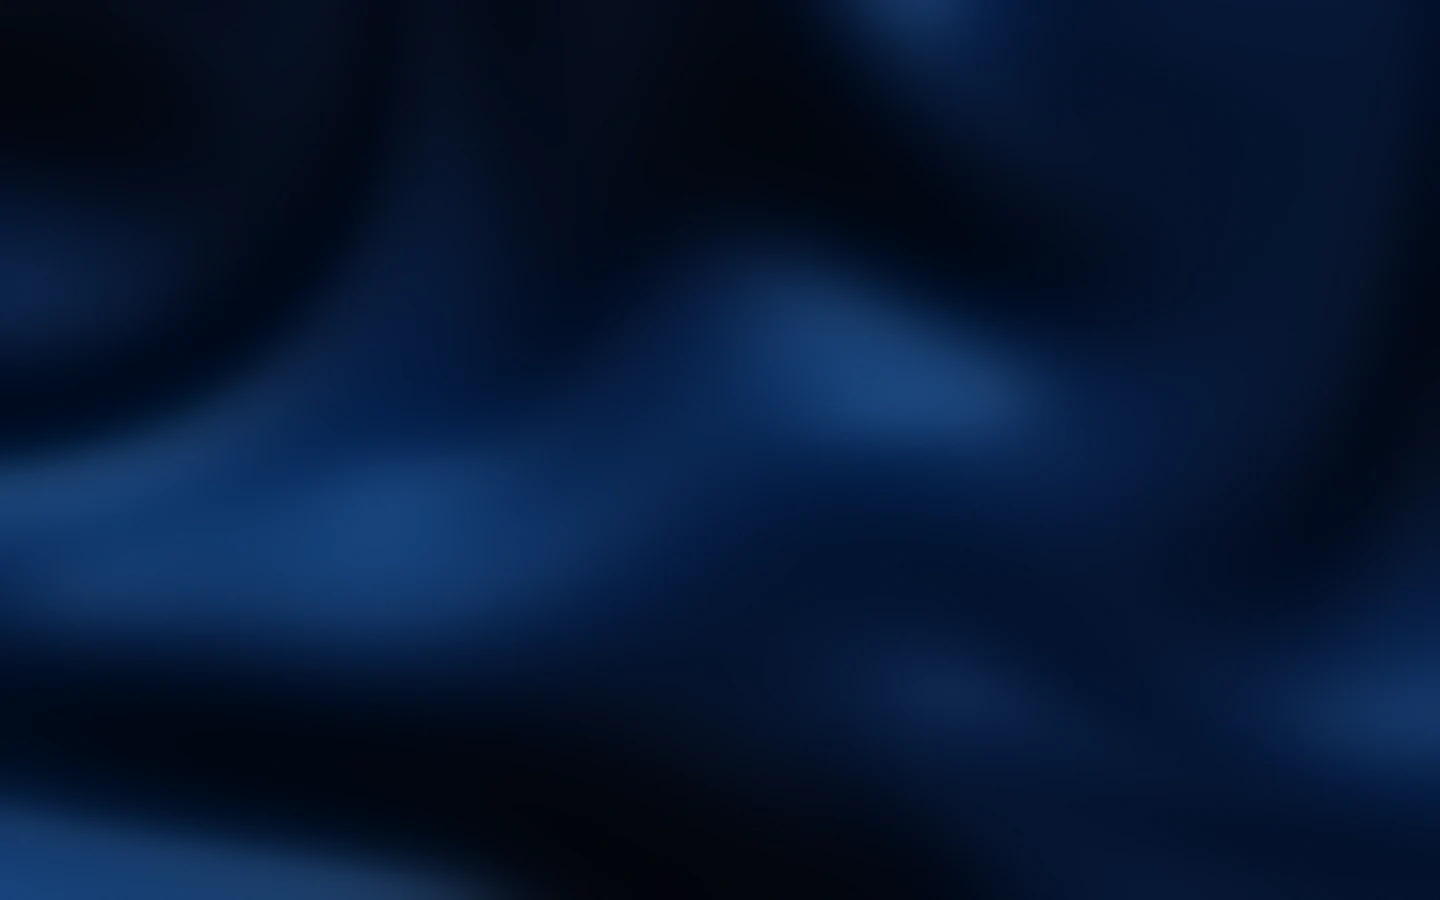
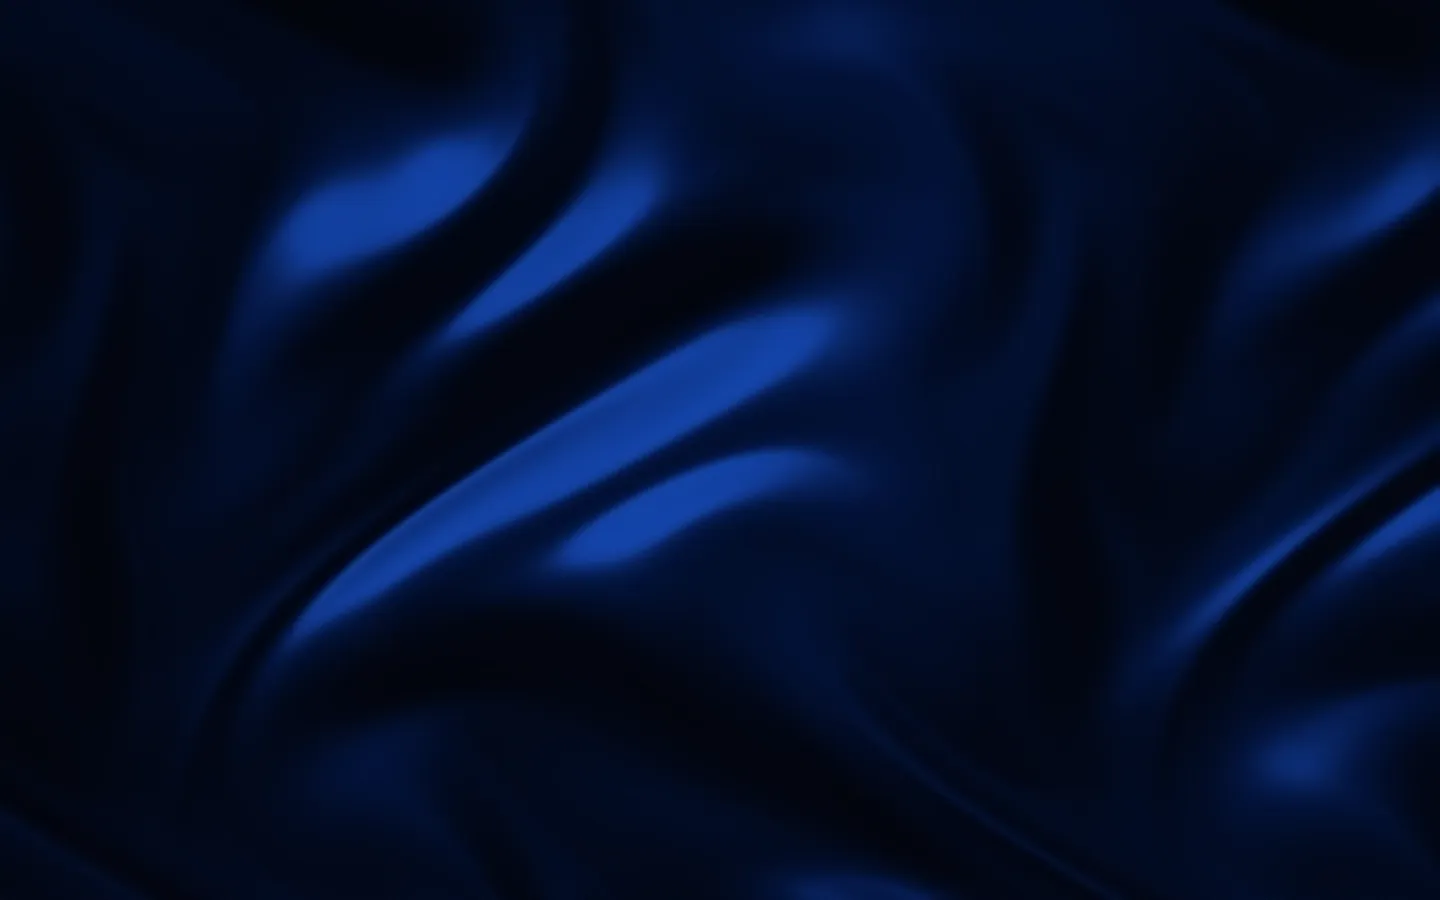
feat(website): satin silk background

diff --git a/website/public/silk.js b/website/public/silk.js
@@ -1,9 +1,10 @@
 // SPDX-License-Identifier: GPL-3.0-or-later
-// Kyro Wallet site: the blue silk, our own small WebGL shader on one fixed canvas. It only ever knows
-// the time: the scrim that dims it behind the content is plain page background, so scrolling stays
-// with the compositor and nothing here reads the scroll position or the layout. It draws a small
-// buffer that CSS scales up, at 30 to 40 fps, and stops with the tab. Without WebGL, with reduced
-// motion, with Data Saver on or on a GPU that cannot keep up, the still image under it stays.
+// Kyro Wallet site: the blue satin, our own small WebGL shader on one fixed canvas: a folded height
+// field, lit. It only ever knows the time: the scrim that dims it behind the content is plain page
+// background, so scrolling stays with the compositor and nothing here reads the scroll position or the
+// layout. It draws every frame the display shows, at 60 or 240 Hz alike, into a small buffer that CSS
+// scales up, and stops with the tab. Frames that miss vsync shrink the buffer, never the frame rate.
+// Without WebGL, with reduced motion or with Data Saver on, the still image stays.
 (function () {
   'use strict';
 
@@ -13,40 +14,61 @@
   if (navigator.connection && navigator.connection.saveData) return;
 
   var VERT = 'attribute vec2 p;void main(){gl_Position=vec4(p,0.,1.);}';
+  // Phones fold the cloth one pass less: only fine creases go.
   var FRAG = [
     '#ifdef GL_FRAGMENT_PRECISION_HIGH',
     'precision highp float;',
     '#else',
     'precision mediump float;',
     '#endif',
-    'uniform vec2 R;uniform float T;uniform vec2 L;',
-    // Sine domain warp, two passes: wide folds only, nothing fine enough to shimmer.
+    '#define PASSES ' + (K.coarse ? 2 : 3),
+    'uniform vec2 R;uniform float T;uniform vec2 L;uniform float W;',
+    // The height of the cloth: a sine domain warp folds one large wave over itself.
     'float cloth(vec2 q){',
-    '  q.x+=.62*sin(1.55*q.y+T*.42+1.3);',
-    '  q.y+=.62*cos(1.55*q.x-T*.33+2.1);',
-    '  q.x+=.31*sin(3.1*q.y-T*.27+3.9);',
-    '  q.y+=.31*cos(3.1*q.x+T*.23+4.2);',
-    '  return sin(q.x*1.35+q.y*.8);',
+    '  for(int i=1;i<=PASSES;i++){',
+    '    float f=float(i);',
+    '    q.x+=.62/f*sin(f*1.55*q.y+T*.42+f*1.3);',
+    '    q.y+=.62/f*cos(f*1.55*q.x-T*.33+f*2.1);',
+    '  }',
+    '  return sin(q.x*1.4+q.y*.8)+.04*sin(q.x*4.7-q.y*3.1);',
     '}',
     'void main(){',
-    '  vec2 uv=gl_FragCoord.xy/R;float a=R.x/R.y;',
-    '  vec2 q=(uv-.5)*vec2(a,1.);',
-    '  q=mat2(.8,-.6,.6,.8)*q*2.1+vec2(.4,.2);',
-    // Lit along one direction: two samples of the cloth give the slope facing the light.
-    '  float h=cloth(q);float s=(cloth(q+L*.05)-h)*8.;',
-    '  float v=.4+.14*h+.52*s/(1.+abs(s));',
-    '  v*=mix(.58,1.,smoothstep(1.25,.15,length((uv-vec2(.64,.62))*vec2(1.15,1.))));',
-    // Near-black, deep blue, then Kyro blue as the brightest it ever gets: no hot spot behind text.
-    '  vec3 c=mix(vec3(.012,.03,.075),vec3(.016,.11,.29),smoothstep(.08,.5,v));',
-    '  c=mix(c,vec3(.075,.33,.68),smoothstep(.42,.95,v));',
+    '  vec2 uv=gl_FragCoord.xy/R;',
+    '  vec2 q=(uv-.5)*vec2(R.x/R.y,1.)*mix(4.4,3.8,W)+vec2(.4,.2);',
+    // Forward differences: three heights give the slope, and the slope gives the normal.
+    '  float h=cloth(q);',
+    '  vec2 g=(vec2(cloth(q+vec2(.012,0.)),cloth(q+vec2(0.,.012)))-h)/.012;',
+    '  vec3 n=normalize(vec3(-g*.2,1.));',
+    // A key light from the top left, a soft fill from the other side, a satin lobe around the tight one.
+    '  vec3 l=normalize(vec3(L,.6));',
+    '  vec3 m=normalize(l+vec3(0.,0.,1.));',
+    '  float d=max(dot(n,l),0.);',
+    '  float fill=max(dot(n,vec3(.56,-.34,.76)),0.);',
+    '  float nm=max(dot(n,m),0.);',
+    // Strand sheen: threads run along the fold, so they catch the light across it, without any texture.
+    '  float th=dot(normalize(vec3(-g.y,g.x,.5)),m);',
+    '  float sheen=pow(max(1.-th*th,0.),18.);',
+    '  float v=(.03+.46*d*d+.05*fill)*(.84+.16*h)+.08*pow(nm,16.)+.03*sheen+.13*pow(nm,60.);',
+    '  vec2 e=(uv-vec2(.56,.56))*vec2(1.,1.1);',
+    '  v*=mix(1.,.5,smoothstep(.3,.95,length(e)));',
+    // Behind the text the peaks flatten out into blue: left of the hero on a wide screen, all of a phone.
+    '  float open=W*smoothstep(.24,.8,uv.x);',
+    '  float knee=mix(.34,.66,open);',
+    '  float over=max(v-knee,0.);',
+    '  v=min(v,knee)+over/(1.+over*mix(9.,3.,open));',
+    // Near-black navy, deep blue, Kyro blue, ice, and a soft near-white for the very peaks only.
+    '  vec3 c=mix(vec3(.008,.016,.045),vec3(.012,.075,.235),smoothstep(.02,.28,v));',
+    '  c=mix(c,vec3(.085,.29,.72),smoothstep(.22,.56,v));',
+    '  c=mix(c,vec3(.49,.77,1.),smoothstep(.52,.84,v));',
+    '  c=mix(c,vec3(.88,.95,1.),smoothstep(.84,1.1,v));',
     // Interleaved gradient noise, one 8-bit step and fixed in place: no banding, no shimmer.
-    '  float g=fract(52.9829189*fract(dot(gl_FragCoord.xy,vec2(.06711056,.00583715))));',
-    '  gl_FragColor=vec4(c+(g-.5)/128.,1.);',
+    '  float z=fract(52.9829189*fract(dot(gl_FragCoord.xy,vec2(.06711056,.00583715))));',
+    '  gl_FragColor=vec4(c+(z-.5)/128.,1.);',
     '}'
   ].join('\n');
 
   // A software renderer would draw this on the CPU, next to the page: the caveat flag refuses it.
-  var gl = canvas.getContext('webgl', { alpha: false, antialias: false, depth: false, stencil: false, powerPreference: 'low-power', failIfMajorPerformanceCaveat: true });
+  var gl = canvas.getContext('webgl', { alpha: false, antialias: false, depth: false, stencil: false, powerPreference: 'high-performance', failIfMajorPerformanceCaveat: true });
   if (!gl) return;
 
   function shader(type, src) {
@@ -69,7 +91,7 @@
   var loc = gl.getAttribLocation(prog, 'p');
   gl.enableVertexAttribArray(loc);
   gl.vertexAttribPointer(loc, 2, gl.FLOAT, false, 0, 0);
-  var uR = gl.getUniformLocation(prog, 'R'), uT = gl.getUniformLocation(prog, 'T'), uL = gl.getUniformLocation(prog, 'L');
+  var uR = gl.getUniformLocation(prog, 'R'), uT = gl.getUniformLocation(prog, 'T'), uL = gl.getUniformLocation(prog, 'L'), uW = gl.getUniformLocation(prog, 'W');
 
   // Sized in CSS pixels, so the device pixel ratio never adds work. A huge screen stays under the cap.
   var scale = K.coarse ? 0.35 : 0.5;
@@ -81,6 +103,7 @@
     canvas.height = Math.max(2, Math.round(h * s));
     gl.viewport(0, 0, canvas.width, canvas.height);
     gl.uniform2f(uR, canvas.width, canvas.height);
+    gl.uniform1f(uW, w / h > 1.15 ? 1 : 0);
   }
   K.resize(resize);
   resize();
@@ -105,39 +128,40 @@
   }
   canvas.addEventListener('webglcontextlost', stop);
 
-  // Quality: rAF intervals over a few seconds. A slow device first gets a smaller buffer, then the image.
-  var sum = 0, n = 0, wait = 3, last = 0;
+  // Quality: the shortest steady interval is the display's refresh. When a window of frames keeps missing
+  // it, the buffer shrinks a little.
+  var WINDOW = 120, ticks = new Float32Array(WINDOW);
+  var n = 0, wait = 3000, last = 0, refresh = 1000, bad = 0;
   function quality(now, raw) {
-    if (raw > 200) return;
-    if (now < wait) return;
-    sum += raw;
-    if (++n < 150) return;
-    var avg = sum / n;
-    sum = n = 0;
-    if (avg < 24) return;
-    wait = now + 2000;
+    if (raw > 200 || now < wait) return;
+    ticks[n++] = raw;
+    if (n < WINDOW) return;
+    n = 0;
+    ticks.sort();
+    refresh = Math.min(ticks[WINDOW >> 2], refresh * 1.02);
+    var missed = WINDOW - 1;
+    while (missed >= 0 && ticks[missed] > refresh * 1.5) missed--;
+    bad = WINDOW - 1 - missed > WINDOW / 10 ? bad + 1 : 0;
+    if (bad < 2) return;
+    bad = 0;
+    wait = now + 1000;
     if (scale > 0.2) {
-      scale *= 0.7;
+      scale *= 0.9;
       resize();
-    } else {
-      stop();
     }
   }
 
-  // Seconds of cloth. Added up from clamped steps, so a stall slows it for a moment and never jumps.
-  var T = 18, lastDraw = 0;
+  // Seconds of cloth, on real time. Added up from clamped steps, so a stall slows it and never jumps.
+  var T = 18;
   K.frame(function (now, dt) {
     if (!live) return;
     if (last) quality(now, now - last);
     last = now;
-    T += dt * 0.16;
+    T += dt * 0.1;
     mx = K.damp(mx, tx, 3, dt);
     my = K.damp(my, ty, 3, dt);
-    // rAF stops in a hidden tab, and this with it. 26 ms: 30 fps at 60 Hz, 36 fps at 144 Hz.
-    if (now - lastDraw < 26) return;
-    lastDraw = now;
     gl.uniform1f(uT, T);
-    gl.uniform2f(uL, -0.62 + mx * 0.14, 0.78 + my * 0.14);
+    gl.uniform2f(uL, -0.62 + mx * 0.1, 0.72 + my * 0.1);
     gl.drawArrays(gl.TRIANGLES, 0, 3);
   });
 

diff --git a/website/public/scenes.js b/website/public/scenes.js
@@ -52,7 +52,7 @@
     var screens = el.querySelectorAll('[data-screen]');
     var rails = el.querySelectorAll('[data-rail]');
     var tabs = el.querySelectorAll('[data-go]');
-    var current = 0, timer = 0;
+    var current = 0, next = 0;
     var EVERY = 6500;
 
     function show(i) {
@@ -69,14 +69,10 @@
       });
     }
     function stop() {
-      window.clearInterval(timer);
-      timer = 0;
+      next = 0;
     }
     function start() {
-      if (timer || !K.motion) return;
-      timer = window.setInterval(function () {
-        show((current + 1) % screens.length);
-      }, EVERY);
+      if (!next && K.motion) next = performance.now() + EVERY;
     }
     each(tabs, function (b, i) {
       b.addEventListener('click', function () {
@@ -86,6 +82,11 @@
       });
     });
     if (!K.motion) return;
+    K.frame(function (now) {
+      if (!next || now < next) return;
+      next = now + EVERY;
+      show((current + 1) % screens.length);
+    });
 
     el.querySelector('.kw-in').classList.add('draw');
     new IntersectionObserver(function (e) {

diff --git a/website/public/style.css b/website/public/style.css
@@ -56,7 +56,7 @@
   --sh-2: 0 1px 2px rgba(0, 0, 0, .4), 0 6px 14px -8px rgba(0, 0, 0, .6);
   --sh-3: 0 2px 6px rgba(0, 0, 0, .4), 0 12px 24px -12px rgba(0, 0, 0, .8);
   --hl: inset 0 1px 0 rgba(255, 255, 255, .04);
-  --scrim: rgba(4, 6, 10, .78);
+  --scrim: rgba(4, 6, 10, .84);
   --out: cubic-bezier(.22, 1, .36, 1);
   --spring: cubic-bezier(.2, 1.25, .35, 1);
   color-scheme: dark;
